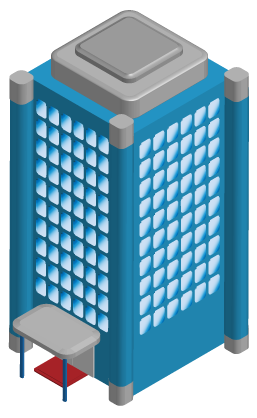
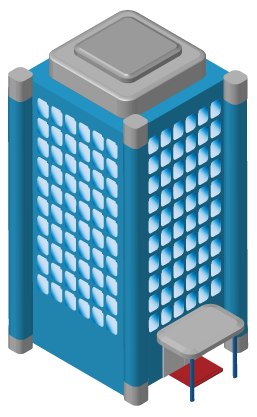
Complete building position

diff --git a/style.css b/style.css
@@ -1,5 +1,3 @@
-@import url('https://fonts.googleapis.com/css2?family=Nunito&display=swap');
-
 .pic {
     position: relative;
     width: fit-content;
@@ -7,39 +5,122 @@
     margin-right: auto;
 }
 
-/* #main_map {
-    transform: scale(1.1);
-} */
+#main_map {
+    position: relative;
+    z-index: -100;
+}
 
 
 .buildings {
-    position: absolute;
-    top: 0;
-    left: 0;
-    width: 155px;
     border: 1px solid black;
 }
 
 .FEU {
     position: absolute;
-    top: 315px;
-    left: 310px;
+    width: 190px;
+    top: 350px;
+    left: 340px;
 }
 
 .hospital {
     position: absolute;
-    width: 150px;
-    top: 400px;
-    left: 710px;
+    width: 160px;
+    top: 470px;
+    left: 820px;
 }
 
 .lb_building {
     position: absolute;
-    width: 140px;
-    top: 180px;
-    left: 577px;
+    width: 160px;
+    top: 200px;
+    left: 658px;
 }
 
+.apartment {
+    position: absolute;
+    width: 132px;
+    top: 575px;
+    left: 285px;
+}
+
+.blue_building {
+    position: absolute;
+    width: 110px;
+    top: 488px;
+    left: 85px;
+}
+
+.bakery {
+    position: absolute;
+    width: 120px;
+    top: 480px;
+    left: 220px;
+}
+
+.bank {
+    position: absolute;
+    width: 100px;
+    top: 280px;
+    left: 530px;
+}
+
+.building1 {
+    position: absolute;
+    width: 110px;
+    top: 566px;
+    left: 610px;
+}
+
+.building2 {
+    position: absolute;
+    width: 210px;
+    top: 410px;
+    left: 620px;
+}
+
+.building3 {
+    position: absolute;
+    width: 150px;
+    top: 190px;
+    left: 365px;
+}
+
+.building4 {
+    position: absolute;
+    width: 105px;
+    top: 495px;
+    left: 495px;
+    z-index: 100;
+}
+
+.building5 {
+    position: absolute;
+    width: 95px;
+    top: 380px;
+    left: 1100px;
+}
+
+.building6 {
+    position: absolute;
+    width: 95px;
+    top: 280px;
+    left: 990px;
+}
+
+.cafe {
+    position: absolute;
+    width: 95px;
+    top: 342px;
+    left: 872px;
+}
+
+.pharmacy_building {
+    position: absolute;
+    width: 120px;
+    top: 595px;
+    left: 700px;
+    z-index: 0;
+}
 
 body {
     background-color: rgba(93,172,151,255);
@@ -54,4 +135,8 @@ h1 {
     position: absolute;
     top:20px;
     left:10px;
+}
+
+.buildings:hover {
+    transform: scale(1.05);
 }

diff --git a/index.html b/index.html
@@ -1,0 +1,34 @@
+<!DOCTYPE html>
+<html lang="en">
+    <head>  
+        <meta charset="UTF-8">
+        <meta http-equiv="X-UA-Compatible" content="IE=edge">
+        <meta name="viewport" content="width=device-width, initial-scale=1.0">
+        <title>Document</title>
+        <link rel='stylesheet' href='style.css'>
+        <link rel='stylesheet' href='hover.css'>
+    </head>
+    <body>
+        <div class="pic">
+            <img id='main_map' src="./map_only.jpg">
+            <a href='#' target='_blank'><img class='buildings FEU' src='Buildings/FEU-Building.png'></a>
+            <img class='buildings pharmacy_building' src='./Buildings/pharmacy-building.png'>
+            <img class='buildings hospital' src='Buildings/hospital.png'>
+            <img class='buildings lb_building' src='./Buildings/LB-building.png'>
+            <img class='buildings apartment' src='./Buildings/apartment.png'>
+            <img class='buildings blue_building' src='./Buildings/blue-building.png'>
+            <img class='buildings bakery' src='./Buildings/bakery.png'>
+            <img class='buildings bank' src='./Buildings/bank.png'>
+            <img class='buildings building1' src='./Buildings/building-1.png'>
+            <img class='buildings building2' src='./Buildings/building-2.png'>
+            <img class='buildings building3' src='./Buildings/building-3.png'>
+            <img class='buildings building4' src='./Buildings/building-4.png'>
+            <img class='buildings building5' src='./Buildings/building-5.png'>
+            <img class='buildings building6' src='./Buildings/building-6.png'>
+            <img class='buildings cafe' src='./Buildings/cafe.png'>
+            
+        </div>
+
+        
+    </body>
+</html>
